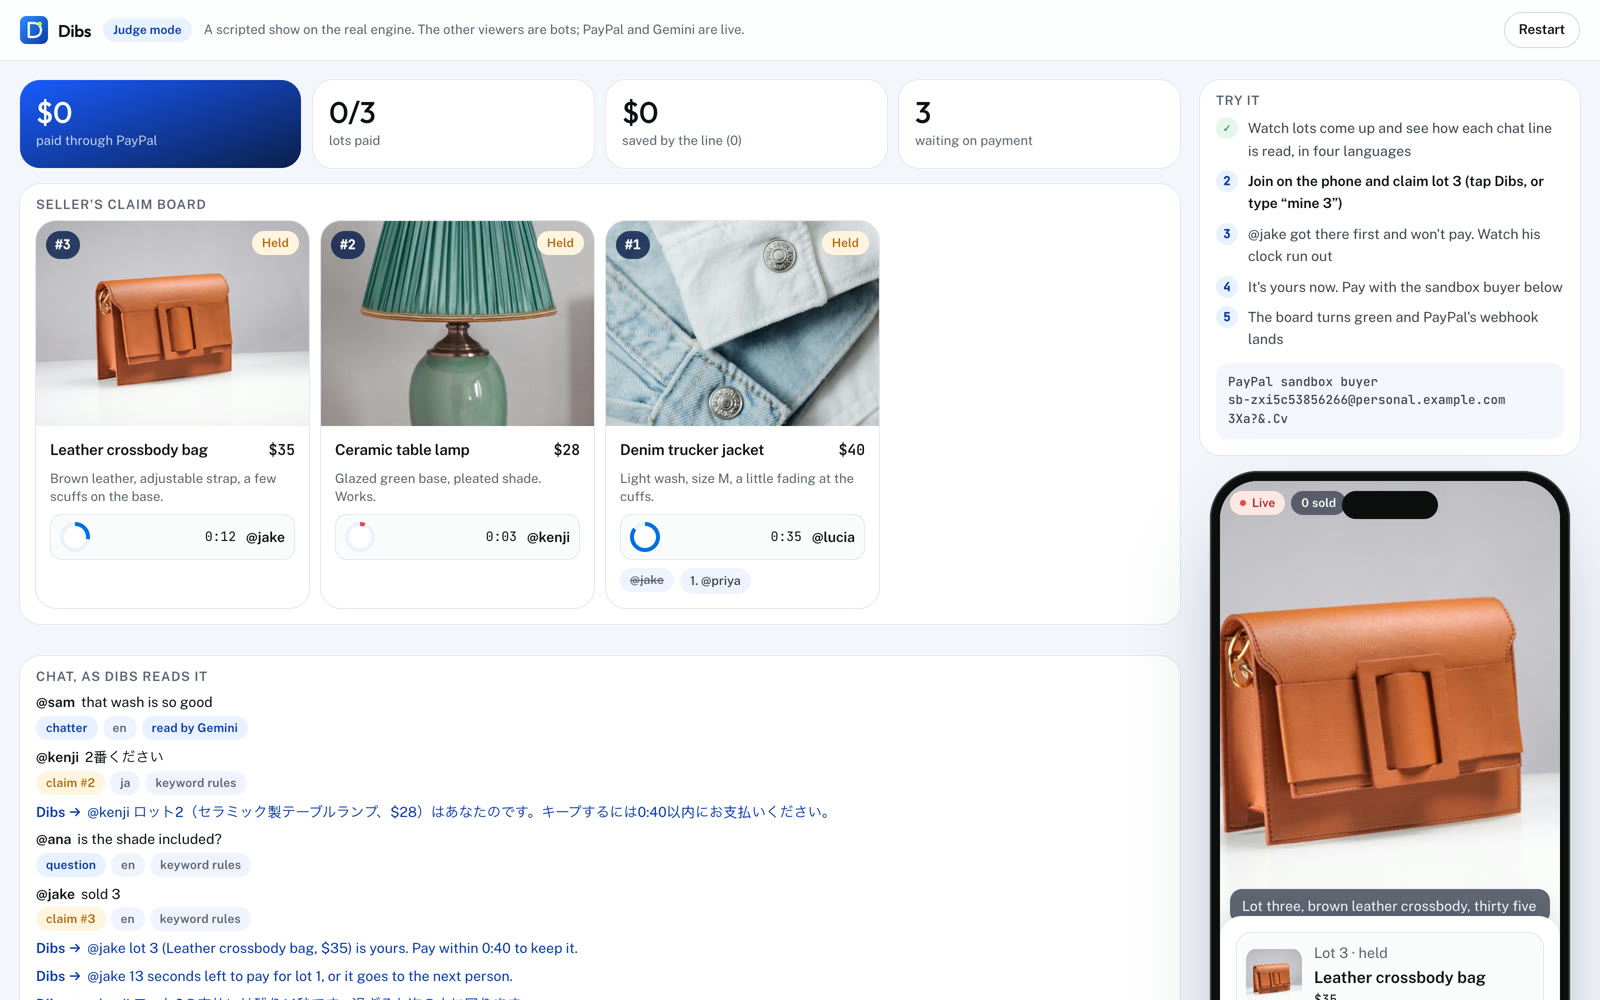
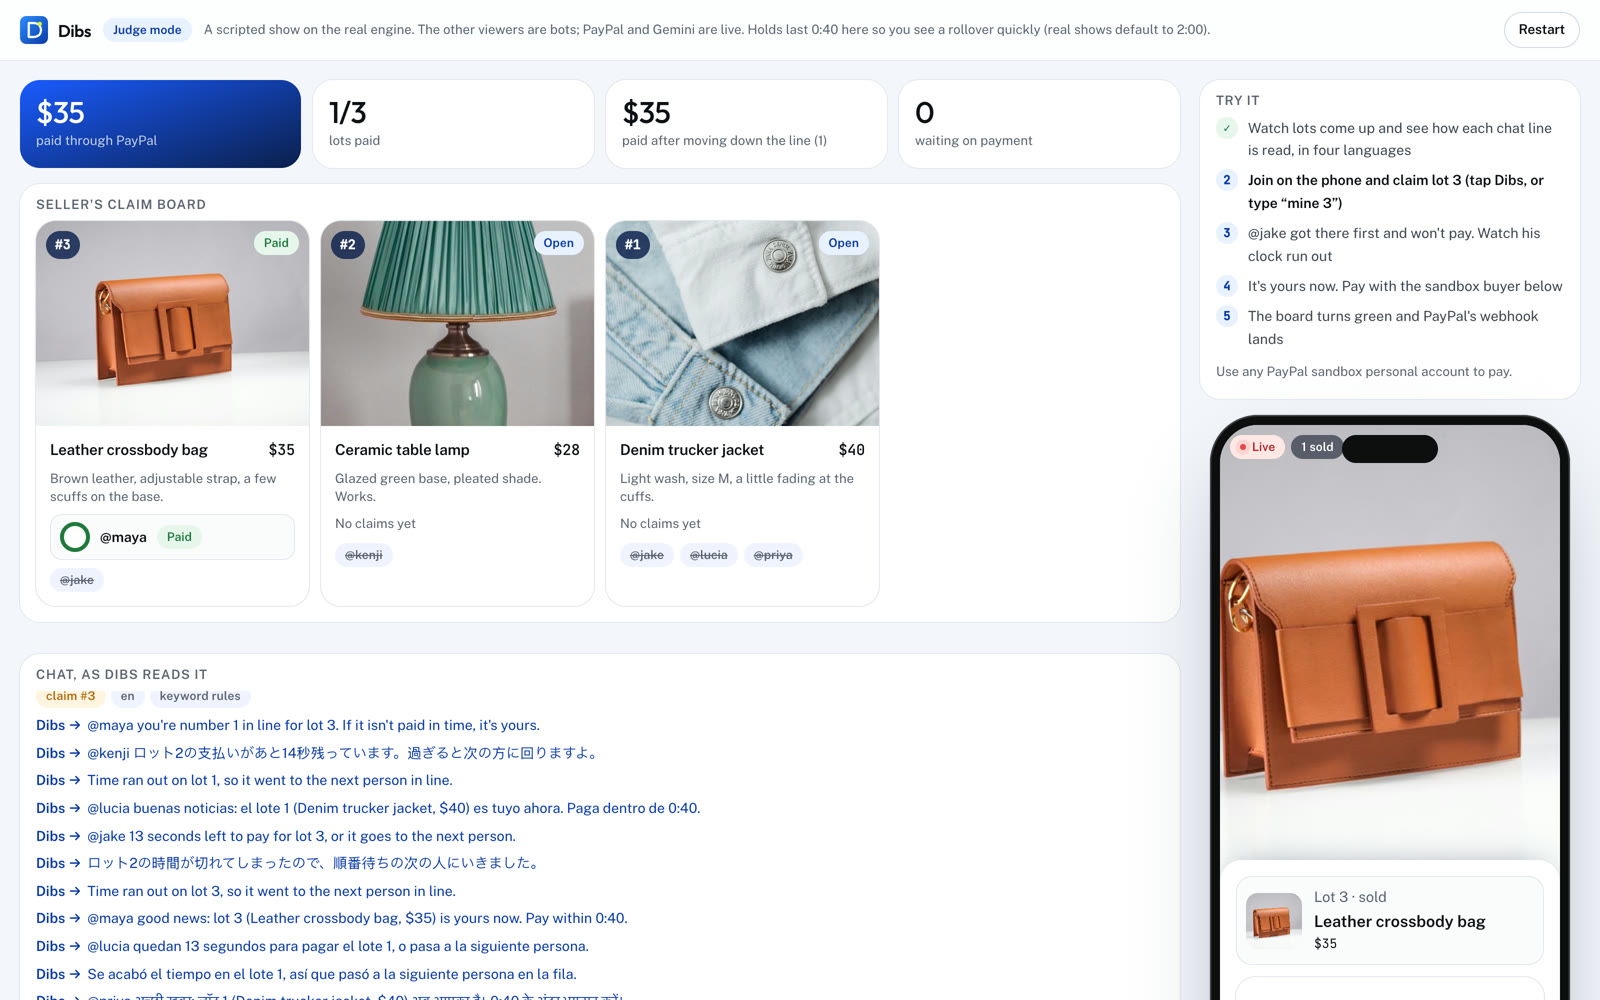
Paid-run hero image and evidence; pending captures no longer toast as paid; buyer names in the PayPal panel

diff --git a/web/src/pages/Demo.tsx b/web/src/pages/Demo.tsx
@@ -135,7 +135,7 @@ export function Demo() {
 
 /** What PayPal returned for this show: real sandbox order and capture IDs, and each verified webhook. */
 function PayPalPanel({ show }: { show: NonNullable<ReturnType<typeof useShow>["show"]> }) {
-  const handle = (id: string) => show.buyers.find((b) => b.id === id)?.handle ?? "buyer";
+  const handle = (id: string) => show.buyers.find((b) => b.id === id)?.handle ?? show.claims.find((c) => c.buyerId === id)?.handle ?? "buyer";
   const hooks = show.chat.filter((m) => m.system && m.handle === "paypal");
   return (
     <section className="panel-card" aria-live="polite">
@@ -143,7 +143,7 @@ function PayPalPanel({ show }: { show: NonNullable<ReturnType<typeof useShow>["s
       <div className="panel-body" style={{ display: "grid", gap: 8 }}>
         {show.orders.map((o) => (
           <div key={o.id} className="holder" style={{ flexWrap: "wrap", gap: 8 }}>
-            <span className={`pill ${o.status === "captured" ? "pill--sold" : "pill--model"}`}>{o.status === "captured" ? "captured" : o.status}</span>
+            <span className={`pill ${o.status === "captured" ? "pill--sold" : "pill--model"}`}>{o.status === "captured" ? "captured" : o.status === "capturing" ? "pending at PayPal" : o.status}</span>
             <span className="grow">
               @{handle(o.buyerId)} · {money(o.total.cents)}
             </span>

diff --git a/web/src/lib/ui.tsx b/web/src/lib/ui.tsx
@@ -135,8 +135,10 @@ export function PayButtons({ showId, token, holdingKey, onPaid, onError }: { sho
         createOrder: async () => (await api<{ orderId: string }>(`/api/shows/${showId}/checkout`, { token })).orderId,
         onApprove: async (data: { orderID: string }) => {
           try {
-            await api(`/api/shows/${showId}/capture`, { token, orderId: data.orderID });
-            cb.current.onPaid();
+            const res = await api<{ order?: { status?: string } }>(`/api/shows/${showId}/capture`, { token, orderId: data.orderID });
+            // PENDING (e.g. a bank payment) stays reserved until PayPal's webhook says it cleared
+            if (res.order?.status && res.order.status !== "captured") cb.current.onError("PayPal is still processing your payment. The item stays yours until it clears.");
+            else cb.current.onPaid();
           } catch (e) {
             cb.current.onError(e instanceof ApiError && e.status === 409 ? "Time ran out while you were paying, so the item went to the next person. You were not charged." : (e as Error).message);
           }

diff --git a/README.md b/README.md
@@ -6,16 +6,9 @@ Dibs is for small resellers who sell on live video. It reads the chat, holds eac
 
 Built for the PayPal AI Hackathon. Everything runs on the PayPal sandbox; no real money moves.
 
-![Judge mode on the live site: @jake didn't pay for the jacket, so it moved to @lucia, with @priya next in line. Replies go out in each buyer's language.](docs/judge-mode.jpg)
+![Judge mode after a full run: @jake let the bag's clock run out, it moved to @maya, and she paid through PayPal. Every reply went out in the buyer's language.](docs/judge-mode.jpg)
 
-*Judge mode on the live site, captured 12 Nov 2026: @jake let the jacket's clock run out, so it moved to @lucia with @priya next. Each reply is in the buyer's language.*
-
-| | |
-|---|---|
-| Live app | https://dibs-1j5d.onrender.com |
-| Judge mode, no setup | https://dibs-1j5d.onrender.com/demo |
-| Demo video (2:43, subtitled) | https://youtu.be/aTbgwYnOFBY |
-| API collection | [`postman/dibs.postman_collection.json`](postman/dibs.postman_collection.json) |
+*Judge mode after a full run, captured 12 Nov 2026 from a local run of this build against the PayPal sandbox: @jake let the bag's clock run out, it moved to @maya, and she paid (order `63321326B2768344N`, capture `8XH28654N1433314Y`). The hosted copy at the link above runs the same code and also receives PayPal's webhooks.*
 
 ## The problem
 
@@ -114,6 +107,7 @@ Real sandbox runs on 11 November 2026, through Dibs' own endpoints:
 | Capture | `55L4149684291294L`, COMPLETED. A second capture call returned the same result without a new charge. |
 | Co-host refund | Asked "refund 15 dollars on lot 1", the co-host proposed it and nothing moved. After Confirm: refund `38E52394V7107161L` of $15.00 on capture `2UY924655E8922244`, COMPLETED. |
 | Guard | Asked to refund $100 on the same lot, the proposal was refused in code ("Lot 1 can be refunded at most $25.00."), because $15 of its $40 had already gone back. |
+| Judge-mode run | @jake's hold on lot 3 lapsed, the lot moved to the next buyer, who paid $35: order `63321326B2768344N`, capture `8XH28654N1433314Y`, COMPLETED (12 Nov 2026). |
 | Idempotent refund | Refund `2TG56374WK6010724` of $10.00 on capture `5CL163730A872210F`, sent with the proposal's request id; a second Confirm on the same proposal was refused. |
 
 Real YouTube Live sales, read on 11 November 2026 through Dibs' YouTube reader (public chat, read-only, no names kept):
